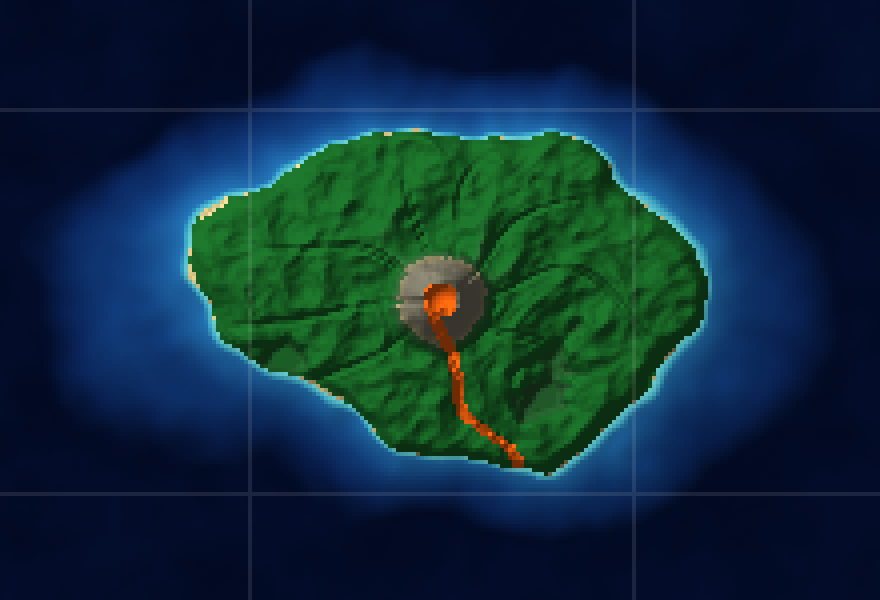
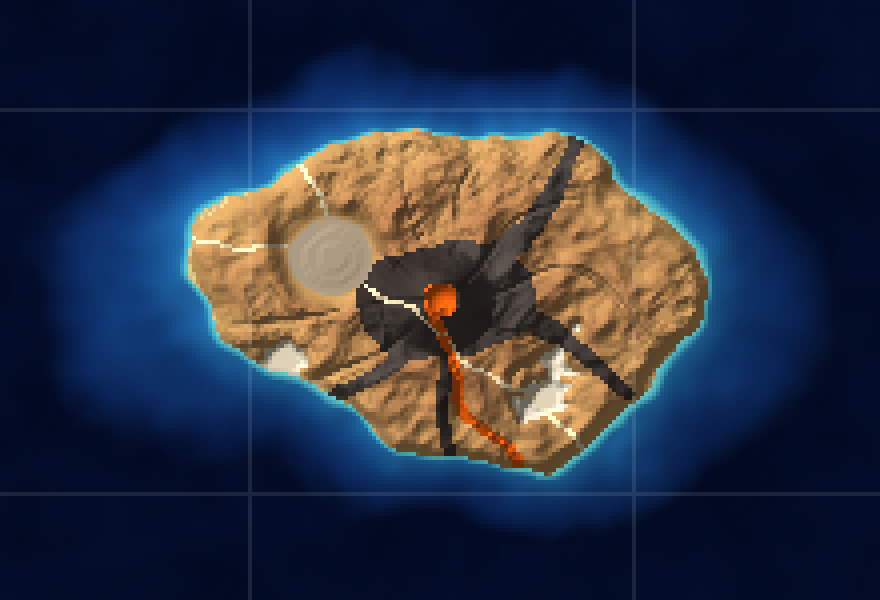
Make the center island a scorched volcanic desert with a prepared plateau and roads for the fallen city
Claude-Session: https://claude.ai/code/session_01FW2oP4t11pHqGQwUfqgGZ9

Changed region(s): [[0.2148, 0.21, 0.8284, 0.81]]

diff --git a/DESIGN_IDEAS.md b/DESIGN_IDEAS.md
@@ -337,6 +337,9 @@ A tile should then take minutes, and `world_preview.gd` could show island panel 
 - **[Decided]** At the very center, (0,0), sits a huge island with a volcano peak and large jungle areas. It is the worst island in the whole game: the worst creatures, climate and storms, with castles and caves.
 - **[Decided]** The center island is fixed: it must come out exactly the same every time the world is generated.
 - **[Proposed]** Implemented as a fixed world feature in `world.json` (`center_island`): an oblong about 20 km east-west and 12 km north-south (about 164 km², roughly four times the largest ordinary island), volcano peak 1,900 m (the world top is 2,048 m), jungle flanks, rising out of the middle of the trench so the abyss is its moat. It reaches into tiles (-1,0) and (1,0), which needs the world-first change that lets islands cross tile borders (Section 4.12). Its size, shape, height and position come only from `world.json`, its seed from the world seed, and its tile is locked, so no random rule can change it. A test checks it is identical even when the random rules change.
+- **[Decided]** The center island sits on the hottest row of the world, so it is a giant desert with desert features, not jungle, and scorched earth around the volcano where it has erupted in the past. (This replaces the earlier "large jungle areas".)
+- **[Decided]** An area is prepared for the fallen society's city from the far past.
+- **[Proposed]** Implemented in the world sketch: sand and red-rock desert with stepped mesas, dry wadis running off the volcano, salt flats in the lowland basins, sea cliffs, a blackened field of lava rock and ash on the upper slopes with old lava flows running down several sides, and the lava river from the crater breach. The fallen city gets a broad, stepped plateau (about 9 km², three low terraces rising to a citadel) on the northwest flank, away from the lava river and the old flows, with three old roads leading toward the coast and the volcano. Ruins, walls and buildings are placed at the tile bake, from the `ruined_city` entry in `world.json`.
 - **[Decided]** The center island is hostile terrain. It will have treacherous flora and fauna, and because it is huge it can hold a few caves, castles, labyrinths and bosses.
 - **[Decided]** It may have land enough for a town, but its incredibly harsh climate and terrors would destroy a town long before it got established.
 - **[Idea]** Over time, AI helps create dilapidated ruins and roads hinting at a fallen civilization, probably one that used strong magic and fell, leaving the island poisoned with many magics and terrible threats.
